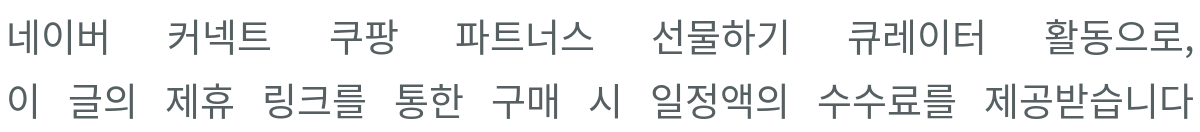
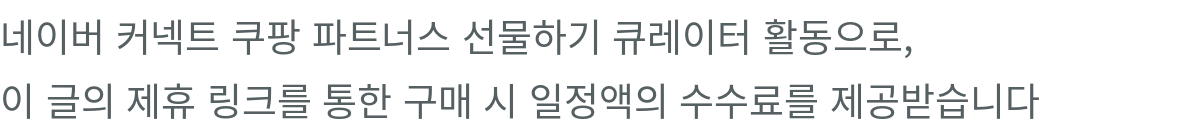
Add files via upload

Changed region(s): [[0.0, 0.6364, 1.0, 0.9091], [0.0, 0.1515, 0.8325, 0.4242], [0.8633, 0.1515, 1.0, 0.4545]]

diff --git a/site/i/cgv-suneung-discount-20261119.html b/site/i/cgv-suneung-discount-20261119.html
@@ -1,18 +1,19 @@
-<!doctype html><html lang="ko"><head><meta charset="utf-8"><meta name="viewport" content="width=device-width,initial-scale=1"><title>수능 안 본 어른도 받는다, CGV 영화·콤보 할인 | 이슈피클</title><meta name="description" content="2026년 11월 19~30일 CGV 수능특가. 청소년 7천 원 관람과 일반 성인 회원 3천 원 할인의 차이, 쿠폰 받는 방법을 정리했습니다."><style>*{box-sizing:border-box}body{margin:0;background:#f6f4ee;color:#252a2b;font-family:-apple-system,BlinkMacSystemFont,"Apple SD Gothic Neo","Noto Sans KR",sans-serif;word-break:keep-all;overflow-wrap:anywhere}a{color:inherit}header{background:#fffefb;border-bottom:1px solid #ddded8}header .inner{max-width:1020px;margin:auto;padding:18px 20px;display:flex;align-items:center;justify-content:space-between}.brand{font-size:28px;font-weight:850;letter-spacing:-1.8px;text-decoration:none}.brand span{color:#2a72a3}.brand small{display:block;font-size:8px;letter-spacing:3px;color:#747c80;margin-top:2px}.back{font-size:14px;color:#5e6b71;text-decoration:none}main{max-width:720px;margin:auto;padding:0 20px 48px}.label{font-size:13px;color:#667d89;margin:26px 0 14px}h1{font-size:34px;line-height:1.35;letter-spacing:-1.2px;margin:0 0 18px}.meta{font-size:14px;color:#687276;line-height:1.7}p,li{font-size:18px;line-height:1.8}h2{font-size:23px;line-height:1.5;letter-spacing:-.5px;margin-top:34px}.summary{padding:16px 18px;background:#edf0ee;border-top:2px solid #718895;margin:26px 0}.summary p{margin:4px 0;font-size:17px}.table-wrap{overflow:auto;margin:18px 0}table{width:100%;border-collapse:collapse;font-size:16px;line-height:1.6}th,td{padding:12px 9px;text-align:left;vertical-align:top;border-bottom:1px solid #ddded8}th{background:#ecefeb}footer{border-top:1px solid #ddded8;padding:22px 20px;text-align:center;color:#667176;font-size:14px}.source{font-size:14px;line-height:1.8}.faq p{margin:8px 0}a:focus-visible{outline:3px solid #718895;outline-offset:4px}@media(max-width:480px){h1{font-size:29px}.back{font-size:13px}th,td{font-size:15px;padding:10px 7px}header .inner{padding:15px 18px}}.piqle-coupang{width:min(680px,calc(100% - 32px));margin:14px auto 24px}.piqle-coupang-notice{margin:0 0 8px;font-size:13px;line-height:1.6;color:#68645f;word-break:keep-all;overflow-wrap:anywhere}.piqle-coupang-notice span{font-size:11px;letter-spacing:.08em;margin-right:7px}.piqle-coupang-widget{width:100%;height:140px;overflow:hidden}.piqle-coupang-widget iframe{display:block;max-width:100%;border:0}.article-photo{margin:26px 0 28px}.article-photo img{display:block;width:100%;height:clamp(180px,48vw,300px);object-fit:cover;border-radius:7px}.photo-credit{font-size:13px;line-height:1.7;color:#687276}.photo-credit a{text-underline-offset:3px}@media(max-width:480px){.article-photo img{height:190px}.article-photo{margin:23px 0 26px}}</style></head><body><header><div class="inner"><a class="brand" href="../index.html">이슈<span>피클</span><small>ISSUE PIQLE</small></a><a class="back" href="index.html">새콤 해설 목록 →</a></div></header><!-- PIQLE: 로고 헤더 다음, main 앞에 넣는 쿠팡 제휴 배너 -->
+<!doctype html><html lang="ko"><head><meta charset="utf-8"><meta name="viewport" content="width=device-width,initial-scale=1"><title>수능 안 본 어른도 받는다, CGV 영화·콤보 할인 | 이슈피클</title><meta name="description" content="2026년 11월 19~30일 CGV 수능특가. 청소년 7천 원 관람과 일반 성인 회원 3천 원 할인의 차이, 쿠폰 받는 방법을 정리했습니다."><style>*{box-sizing:border-box}body{margin:0;background:#f6f4ee;color:#252a2b;font-family:-apple-system,BlinkMacSystemFont,"Apple SD Gothic Neo","Noto Sans KR",sans-serif;word-break:keep-all;overflow-wrap:anywhere}a{color:inherit}header{background:#fffefb;border-bottom:1px solid #ddded8}header .inner{max-width:1020px;margin:auto;padding:18px 20px;display:flex;align-items:center;justify-content:space-between}.brand{font-size:28px;font-weight:850;letter-spacing:-1.8px;text-decoration:none}.brand span{color:#2a72a3}.brand small{display:block;font-size:8px;letter-spacing:3px;color:#747c80;margin-top:2px}.back{font-size:14px;color:#5e6b71;text-decoration:none}main{max-width:720px;margin:auto;padding:0 20px 48px}.label{font-size:13px;color:#667d89;margin:26px 0 14px}h1{font-size:34px;line-height:1.35;letter-spacing:-1.2px;margin:0 0 18px}.meta{font-size:14px;color:#687276;line-height:1.7}p,li{font-size:18px;line-height:1.8}h2{font-size:23px;line-height:1.5;letter-spacing:-.5px;margin-top:34px}.summary{padding:16px 18px;background:#edf0ee;border-top:2px solid #718895;margin:26px 0}.summary p{margin:4px 0;font-size:17px}.table-wrap{overflow:auto;margin:18px 0}table{width:100%;border-collapse:collapse;font-size:16px;line-height:1.6}th,td{padding:12px 9px;text-align:left;vertical-align:top;border-bottom:1px solid #ddded8}th{background:#ecefeb}footer{border-top:1px solid #ddded8;padding:22px 20px;text-align:center;color:#667176;font-size:14px}.source{font-size:14px;line-height:1.8}.faq p{margin:8px 0}a:focus-visible{outline:3px solid #718895;outline-offset:4px}@media(max-width:480px){h1{font-size:29px}.back{font-size:13px}th,td{font-size:15px;padding:10px 7px}header .inner{padding:15px 18px}}.piqle-coupang{width:min(500px,100%);margin:0 auto 24px}.piqle-coupang-notice{margin:0 0 8px;font-size:13px;line-height:1.6;color:#68645f;word-break:keep-all;overflow-wrap:anywhere}.piqle-coupang-notice span{font-size:11px;letter-spacing:.08em;margin-right:7px}.piqle-coupang-widget{width:100%;height:80px;overflow:hidden}.piqle-coupang-widget iframe{display:block;max-width:100%;border:0}.article-photo{margin:26px 0 28px}.article-photo img{display:block;width:100%;height:clamp(180px,48vw,300px);object-fit:cover;border-radius:7px}.photo-credit{font-size:13px;line-height:1.7;color:#687276}.photo-credit a{text-underline-offset:3px}@media(max-width:480px){.article-photo img{height:190px}.article-photo{margin:23px 0 26px}}</style></head><body><header><div class="inner"><a class="brand" href="../index.html">이슈<span>피클</span><small>ISSUE PIQLE</small></a><a class="back" href="index.html">새콤 해설 목록 →</a></div></header><!-- PIQLE: 로고 헤더 다음, main 앞에 넣는 쿠팡 제휴 배너 -->
 <aside class="piqle-coupang" aria-label="쿠팡 파트너스 광고">
-<img src="assets/cgv-suneung-20261119/affiliate-disclosure.png" width="1200" height="132" alt="네이버 커넥트 쿠팡 파트너스 선물하기 큐레이터 활동으로, 이 글의 제휴 링크를 통한 구매 시 일정액의 수수료를 제공받습니다" style="display:block;width:100%;height:auto;margin:0 0 8px">
+
 <div class="piqle-coupang-widget" id="piqle-coupang-widget">
 <script src="https://ads-partners.coupang.com/g.js"></script>
 <script>
 (function(){
  var slot=document.getElementById('piqle-coupang-widget');
- var width=Math.min(680,Math.floor(slot.getBoundingClientRect().width));
+ var width=Math.min(500,Math.floor(slot.getBoundingClientRect().width));
  if(width>0 && window.PartnersCoupang && window.PartnersCoupang.G){
-  new PartnersCoupang.G({"id":1051923,"template":"carousel","trackingCode":"AF1144527","width":String(width),"height":"140","tsource":""});
+  new PartnersCoupang.G({"id":1051945,"template":"carousel","trackingCode":"AF1144527","width":String(width),"height":"80","tsource":""});
  }
 })();
 </script>
 </div>
+<img src="assets/cgv-suneung-20261119/affiliate-disclosure.png" width="1200" height="132" alt="네이버 커넥트 쿠팡 파트너스 선물하기 큐레이터 활동으로, 이 글의 제휴 링크를 통한 구매 시 일정액의 수수료를 제공받습니다" style="display:block;width:100%;height:auto;margin:2px 0 0">
 </aside>
 <main><article><div class="label">생활·문화 · FRESH PICK</div><h1>수능 안 본 어른도 받는다,<br>CGV 영화·콤보 할인</h1><div class="meta">PIQLE 에디터 · 작성·정보 확인 2026.11.19<br>공식 발표 2026.11.18</div><div class="summary"><p>11월 19일부터 30일까지 CGV 수능특가.</p><p>만 19세 이상 일반 회원도 영화·콤보 할인.</p><p>예매 전, 내 나이에 맞는 쿠폰부터 확인하세요.</p></div>
 <p>수능 할인이라는 이름을 보면 일단 지나치게 됩니다. 수험표를 마지막으로 본 게 언제인지부터 가물가물하니까요.</p><p>그런데 이번 CGV 수능특가는 어른에게도 자리가 있습니다. <strong>만 19세 이상 일반 회원에게도 영화와 콤보 할인 쿠폰을 제공합니다.</strong> 이번 주말 영화 약속이 있다면 예매 전에 확인할 만합니다.</p>
